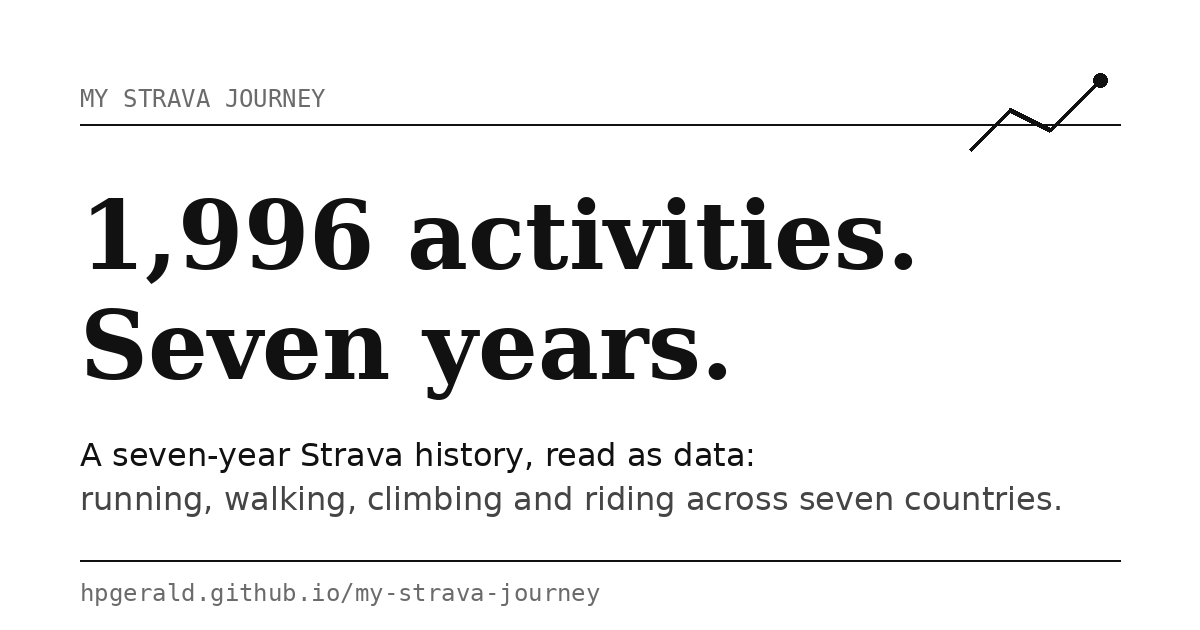
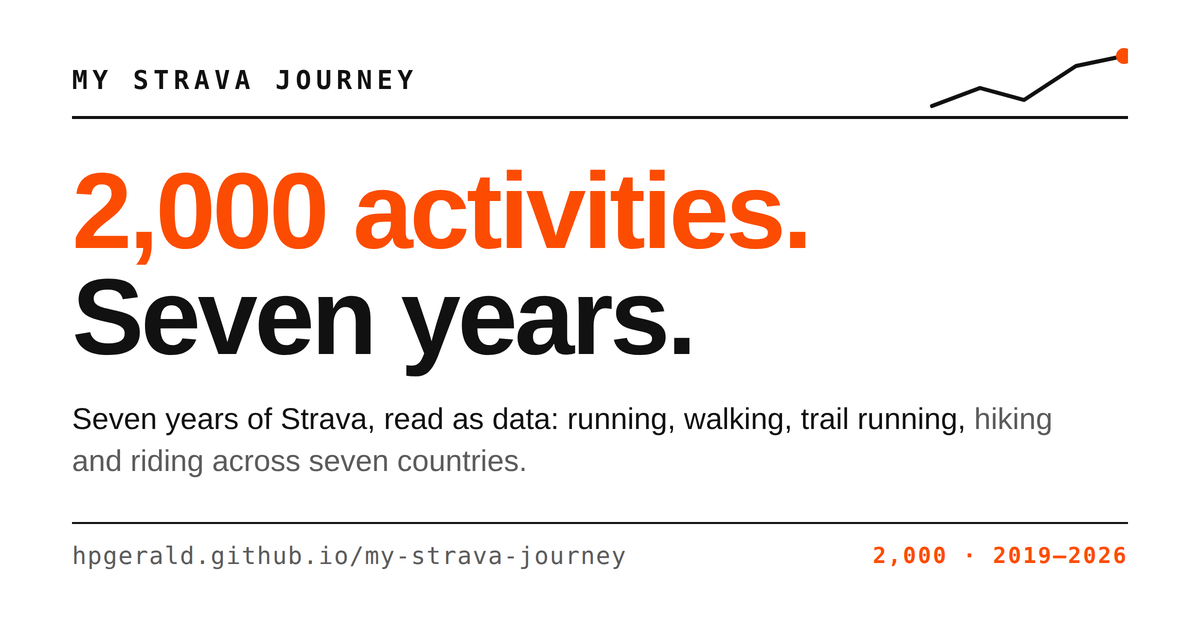
Optimize SEO and About Page

diff --git a/src/pages/About.jsx b/src/pages/About.jsx
@@ -11,6 +11,23 @@ function Fact({ label, children }) {
   )
 }
 
+function Contact({ label, href, children, external }) {
+  return (
+    <div className="factsheet__row">
+      <dt className="factsheet__key">{label}</dt>
+      <dd className="factsheet__val mono">
+        <a
+          className="link"
+          href={href}
+          {...(external ? { target: '_blank', rel: 'noopener noreferrer' } : {})}
+        >
+          {children}
+        </a>
+      </dd>
+    </div>
+  )
+}
+
 export default function About() {
   const meta = useKeyed('meta', 'key', 'value')
 
@@ -70,6 +87,44 @@ export default function About() {
               <Fact label="Units">{meta.units || 'metric'}</Fact>
               <Fact label="Data source">{meta.data_source || 'Strava API'}</Fact>
               <Fact label="Last refreshed">{meta.last_refreshed || 'recently'}</Fact>
+            </dl>
+          </aside>
+        </div>
+      </section>
+
+      <section style={{ paddingTop: 'var(--sp-7)' }}>
+        <hr className="rule" />
+        <div
+          className="grid grid--2"
+          style={{ alignItems: 'start', gap: 'var(--sp-6) var(--sp-8)', paddingTop: 'var(--sp-6)' }}
+        >
+          <div>
+            <h2 className="display" style={{ fontSize: 'var(--fs-lg)' }}>
+              Get in touch
+            </h2>
+            <p className="text-muted" style={{ fontSize: 'var(--fs-sm)', marginTop: 'var(--sp-3)', maxWidth: '28rem' }}>
+              Built by Gerald. Follow the training on Strava, or reach out any time.
+            </p>
+          </div>
+
+          <aside className="factsheet" aria-label="Contact details">
+            <p className="eyebrow" style={{ marginBottom: 'var(--sp-4)' }}>Contact</p>
+            <dl className="factsheet__list">
+              <Contact label="Strava" href="https://www.strava.com/athletes/gtesha" external>
+                /athletes/gtesha
+              </Contact>
+              <Contact label="Email" href="mailto:hpgerald@gmail.com">
+                hpgerald@gmail.com
+              </Contact>
+              <Contact label="Phone" href="tel:+255763453400">
+                +255 763 453 400
+              </Contact>
+              <Contact label="LinkedIn" href="https://www.linkedin.com/in/gtesha/" external>
+                /in/gtesha
+              </Contact>
+              <Contact label="GitHub" href="https://github.com/hpgerald" external>
+                /hpgerald
+              </Contact>
             </dl>
           </aside>
         </div>

diff --git a/index.html b/index.html
@@ -23,14 +23,14 @@
       content="2,000 runs, walks, trail runs, hikes and rides over seven years, from Tanzania to seven countries, laid out so anyone can read it."
     />
     <meta property="og:url" content="https://hpgerald.github.io/my-strava-journey/" />
-    <meta property="og:image" content="https://hpgerald.github.io/my-strava-journey/og.png" />
+    <meta property="og:image" content="https://hpgerald.github.io/my-strava-journey/og.png?v=2" />
     <meta property="og:image:width" content="1200" />
     <meta property="og:image:height" content="630" />
     <meta property="og:image:alt" content="My Strava Journey, seven years of activity read as data" />
     <meta name="twitter:card" content="summary_large_image" />
     <meta name="twitter:title" content="My Strava Journey · Seven Years of Training, Read as Data" />
     <meta name="twitter:description" content="2,000 activities over seven years, laid out so anyone can read it." />
-    <meta name="twitter:image" content="https://hpgerald.github.io/my-strava-journey/og.png" />
+    <meta name="twitter:image" content="https://hpgerald.github.io/my-strava-journey/og.png?v=2" />
 
     <!-- Structured data -->
     <script type="application/ld+json">

diff --git a/src/styles/components.css b/src/styles/components.css
@@ -818,6 +818,17 @@ text.chart-panel-title {
 .factsheet__val { margin: 0; font-size: var(--fs-sm); text-align: right; }
 @media (max-width: 40rem) { .factsheet { position: static; } }
 
+/* Inline underlined link (contact list, inline references) */
+.link {
+  color: inherit;
+  text-decoration: underline;
+  text-underline-offset: 3px;
+  text-decoration-thickness: 1px;
+  transition: color var(--dur) var(--ease);
+}
+.link:hover,
+.link:focus-visible { color: var(--accent-ink); }
+
 /* ---- Radial hours clock (Home) ----------------------------------------- */
 .radial__center {
   position: absolute; left: 50%; top: 50%; transform: translate(-50%, -50%);

diff --git a/src/lib/format.js b/src/lib/format.js
@@ -7,7 +7,7 @@ export function toNum(v) {
   return Number.isFinite(n) ? n : null
 }
 
-// 1996 -> "1,996"
+// 2000 -> "2,000"
 export function fmtInt(v) {
   const n = toNum(v)
   if (n === null) return '—'

diff --git a/README.md b/README.md
@@ -1,0 +1,187 @@
+# My Strava Journey
+
+Seven years of Strava activity, turned into a website anyone can read.
+
+**Live site:** https://hpgerald.github.io/my-strava-journey/
+
+This is a static, data-driven explainer built from a personal Strava export: **2,000 activities** logged between August 2019 and August 2026, across running, walking, trail running, hiking, cycling and a few other sports, mostly around Tanzania with the occasional trip abroad. Every chart and figure on the site traces back to a CSV in `public/data/`, and the whole thing rebuilds from a fresh export each week.
+
+---
+
+## Contents
+
+- [Highlights](#highlights)
+- [What's on the site](#whats-on-the-site)
+- [Tech stack](#tech-stack)
+- [How it works](#how-it-works)
+- [Project structure](#project-structure)
+- [Getting started](#getting-started)
+- [Building and deploying](#building-and-deploying)
+- [Updating the data](#updating-the-data)
+- [Design and accessibility](#design-and-accessibility)
+- [Data and methodology](#data-and-methodology)
+- [Contact](#contact)
+- [Disclaimer and licence](#disclaimer-and-licence)
+
+---
+
+## Highlights
+
+At the last refresh the record covered:
+
+| Metric | Value |
+| --- | --- |
+| Activities | 2,000 |
+| Distance | 15,674 km |
+| Moving time | 2,299 hours |
+| Elevation gained | 103,524 m (about 9.4 times Everest, on foot alone) |
+| Kudos received | 70,831 |
+| Longest active streak | 243 days, still going |
+| Countries | 7 |
+| Tanzanian regions | 17 |
+| Coverage | 2019-08-17 to 2026-08-28 |
+
+## What's on the site
+
+The site is organised as nine numbered sections plus supporting pages. Each section reads on its own and links to the next.
+
+| # | Section | What it shows |
+| --- | --- | --- |
+| 01 | **The Journey** (home) | The headline totals, an animated count-up, one dot for every activity, and a first look at the patterns. |
+| 02 | **By the Numbers** | The debut half-year of 2019 against the latest year, side by side, across volume, effort, terrain and recognition. |
+| 03 | **Sports** | What the training is actually made of, plus a deep dive into the foot data: pace and distance spreads, the treadmill-to-road shift, steepness, time of day and weekend trails. |
+| 04 | **Records** | The far edges: the longest run, the biggest climb, the streak, the total climb drawn as a stack of Everests, and the road to 10,000 km. |
+| 05 | **Where** | Choropleth maps of the countries and Tanzanian regions the activities started in, worked out from each activity's GPS start point. |
+| 06 | **Rhythm** | When the training happens: a consistency calendar, a weekday-by-time-of-day heatmap, effort and cadence by year, and training zones. |
+| 07 | **Gear** | Eleven pairs of shoes as a rotation timeline, how far each carried, road-versus-trail use, and lifetime odometer against logged distance. |
+| 08 | **Timeline** | The story in order: milestones, records and international debuts. |
+| 09 | **What It Means** | The numbers read back as an athlete would read them, for different training goals. |
+
+Supporting pages: **About** (method, limits and contact), **Data** (every source table documented), and per-item detail pages for individual sports and places.
+
+## Tech stack
+
+- **[React 18](https://react.dev/)** with **[Vite 5](https://vitejs.dev/)** for the build.
+- **[React Router 6](https://reactrouter.com/)** using `HashRouter`, so deep links such as `.../#/where` work on GitHub Pages with no server configuration.
+- **[PapaParse](https://www.papaparse.com/)** to read the CSV data at runtime.
+- Self-hosted fonts via **[Fontsource](https://fontsource.org/)**: Archivo (display) and Inter (body).
+- **No charting library.** Every visualisation is hand-built with inline SVG and HTML/CSS, which keeps the bundle small and the styling consistent.
+- Data pipeline scripts in **Python** (pandas-free, standard library plus GeoPandas/Shapely for the geo pass).
+
+## How it works
+
+The site never talks to the Strava API at runtime. Instead there is a one-way pipeline:
+
+```
+Strava export (raw CSV)
+        │
+        ▼
+  Python build scripts  ──►  public/data/*.csv   ──►  React app reads CSVs in the browser
+        │                     (single source of truth)
+        └── geo pass: GPS start points ─► point-in-polygon (Natural Earth) ─► country / region
+```
+
+1. A raw activity export (and, for the map, the GPS start points pulled from the Strava API) goes into the build scripts under `scripts/`.
+2. Those scripts produce roughly thirty small CSVs in `public/data/`: the full activity log plus pre-aggregated tables (yearly and monthly totals, sport breakdown, records, zones, gear, geography and more).
+3. The React app loads those CSVs in the browser and renders every page from them. No figure is hard-coded; change a CSV and the site changes.
+
+This means the site is completely static and hostable anywhere, while every number remains traceable to its source table (documented on the in-site **Data** page).
+
+## Project structure
+
+```
+my-strava-journey/
+├── index.html              # SEO head: title, meta, Open Graph, JSON-LD
+├── public/
+│   ├── data/               # ~30 CSVs, the single source of truth
+│   ├── *.geojson           # Africa and Tanzania boundaries for the maps
+│   ├── og.png, favicon.svg
+│   ├── robots.txt, sitemap.xml
+├── src/
+│   ├── pages/              # one file per section (Home, Sports, Records, Where, ...)
+│   ├── charts/             # ~25 hand-built SVG/HTML chart components
+│   ├── components/         # Nav, Footer, DetailFrame, Layout, DataTable, StatCard, ...
+│   ├── context/            # DataContext: loads and caches the CSVs
+│   ├── lib/                # formatting and helper utilities
+│   └── styles/             # design tokens and component CSS
+├── scripts/                # Python data pipeline + audit scripts (not deployed)
+└── .github/workflows/      # GitHub Actions deploy to Pages
+```
+
+The custom chart components include an area line, columns, calendar heatmap, weekday matrix, small multiples, choropleth, scatter, dumbbell, ranked bars, proportion bars, radial clock, a stack of Everests, a distance-milestone ladder, a shoe rotation timeline, and more.
+
+## Getting started
+
+Requires [Node.js](https://nodejs.org/) 18 or newer.
+
+```bash
+# install dependencies
+npm install
+
+# start the dev server (hot reload)
+npm run dev
+
+# build for production into dist/
+npm run build
+
+# preview the production build locally
+npm run preview
+```
+
+Open the URL the dev server prints (usually http://localhost:5173).
+
+## Building and deploying
+
+The repository ships with a GitHub Actions workflow (`.github/workflows/deploy.yml`) that builds and publishes to GitHub Pages on every push to `main`. There is no need to build locally to deploy.
+
+**One-time setup:** in the repository, go to **Settings → Pages → Build and deployment → Source: GitHub Actions**. After the first push, the Action publishes the site to the URL above.
+
+**To publish an update:**
+
+```bash
+git add .
+git commit -m "Update"
+git push
+```
+
+The Action redeploys automatically, usually within a minute or two.
+
+The project is already configured for Pages: Vite uses `base: './'` for relative asset paths, and the app uses `HashRouter` so every route resolves without server rewrites.
+
+## Updating the data
+
+Because the site is data-driven, a refresh is mostly a data swap:
+
+1. Regenerate the CSVs in `public/data/` from a new Strava export using the scripts in `scripts/`.
+2. Commit and push. The Action rebuilds and redeploys.
+
+The pipeline is incremental where it matters, so existing figures stay stable and only the rows a new export touches are recomputed.
+
+## Design and accessibility
+
+- **Visual language:** a Swiss neo-grotesque system, Archivo for display and Inter for body, on an off-white ground with a single accent (Strava orange) over a grey scale.
+- **Responsive:** a single-row navigation on wide screens that collapses to a hamburger menu on tablets and phones; every chart reflows and no page scrolls sideways at mobile widths.
+- **Accessible:** the site is checked against WCAG 2 A and AA with [axe-core](https://github.com/dequelabs/axe-core) and carries zero violations. Every chart is paired with a visually hidden data table, so the content is fully readable as text and to screen readers.
+
+## Data and methodology
+
+- Figures are shown as logged on Strava. Distances, times and elevation come straight from the activities.
+- Country and region breakdowns are derived from each activity's GPS start point, using point-in-polygon against Natural Earth boundaries for the country and the nearest Tanzanian city for the region. These are approximate within a couple of kilometres of an international border, and indoor or trainer sessions carry no GPS and are counted separately.
+- Gear odometers are Strava's own lifetime totals and may include distance from before this record's earliest pulled activity.
+- Full method notes, confidence levels and known gaps are documented on the in-site **Data** page.
+
+## Contact
+
+Built by Gerald.
+
+- **Strava:** https://www.strava.com/athletes/gtesha
+- **Email:** hpgerald@gmail.com
+- **Phone:** +255 763 453 400
+- **LinkedIn:** https://www.linkedin.com/in/gtesha/
+- **GitHub:** https://github.com/hpgerald
+
+## Disclaimer and licence
+
+This is a personal project for interest's sake, not coaching, medical or training advice. Strava is a trademark of Strava, Inc.; this site is not affiliated with or endorsed by Strava.
+
+The activity data is personal and is shown for reference rather than offered for reuse. The site code is available for anyone who wants to see how it is put together.
